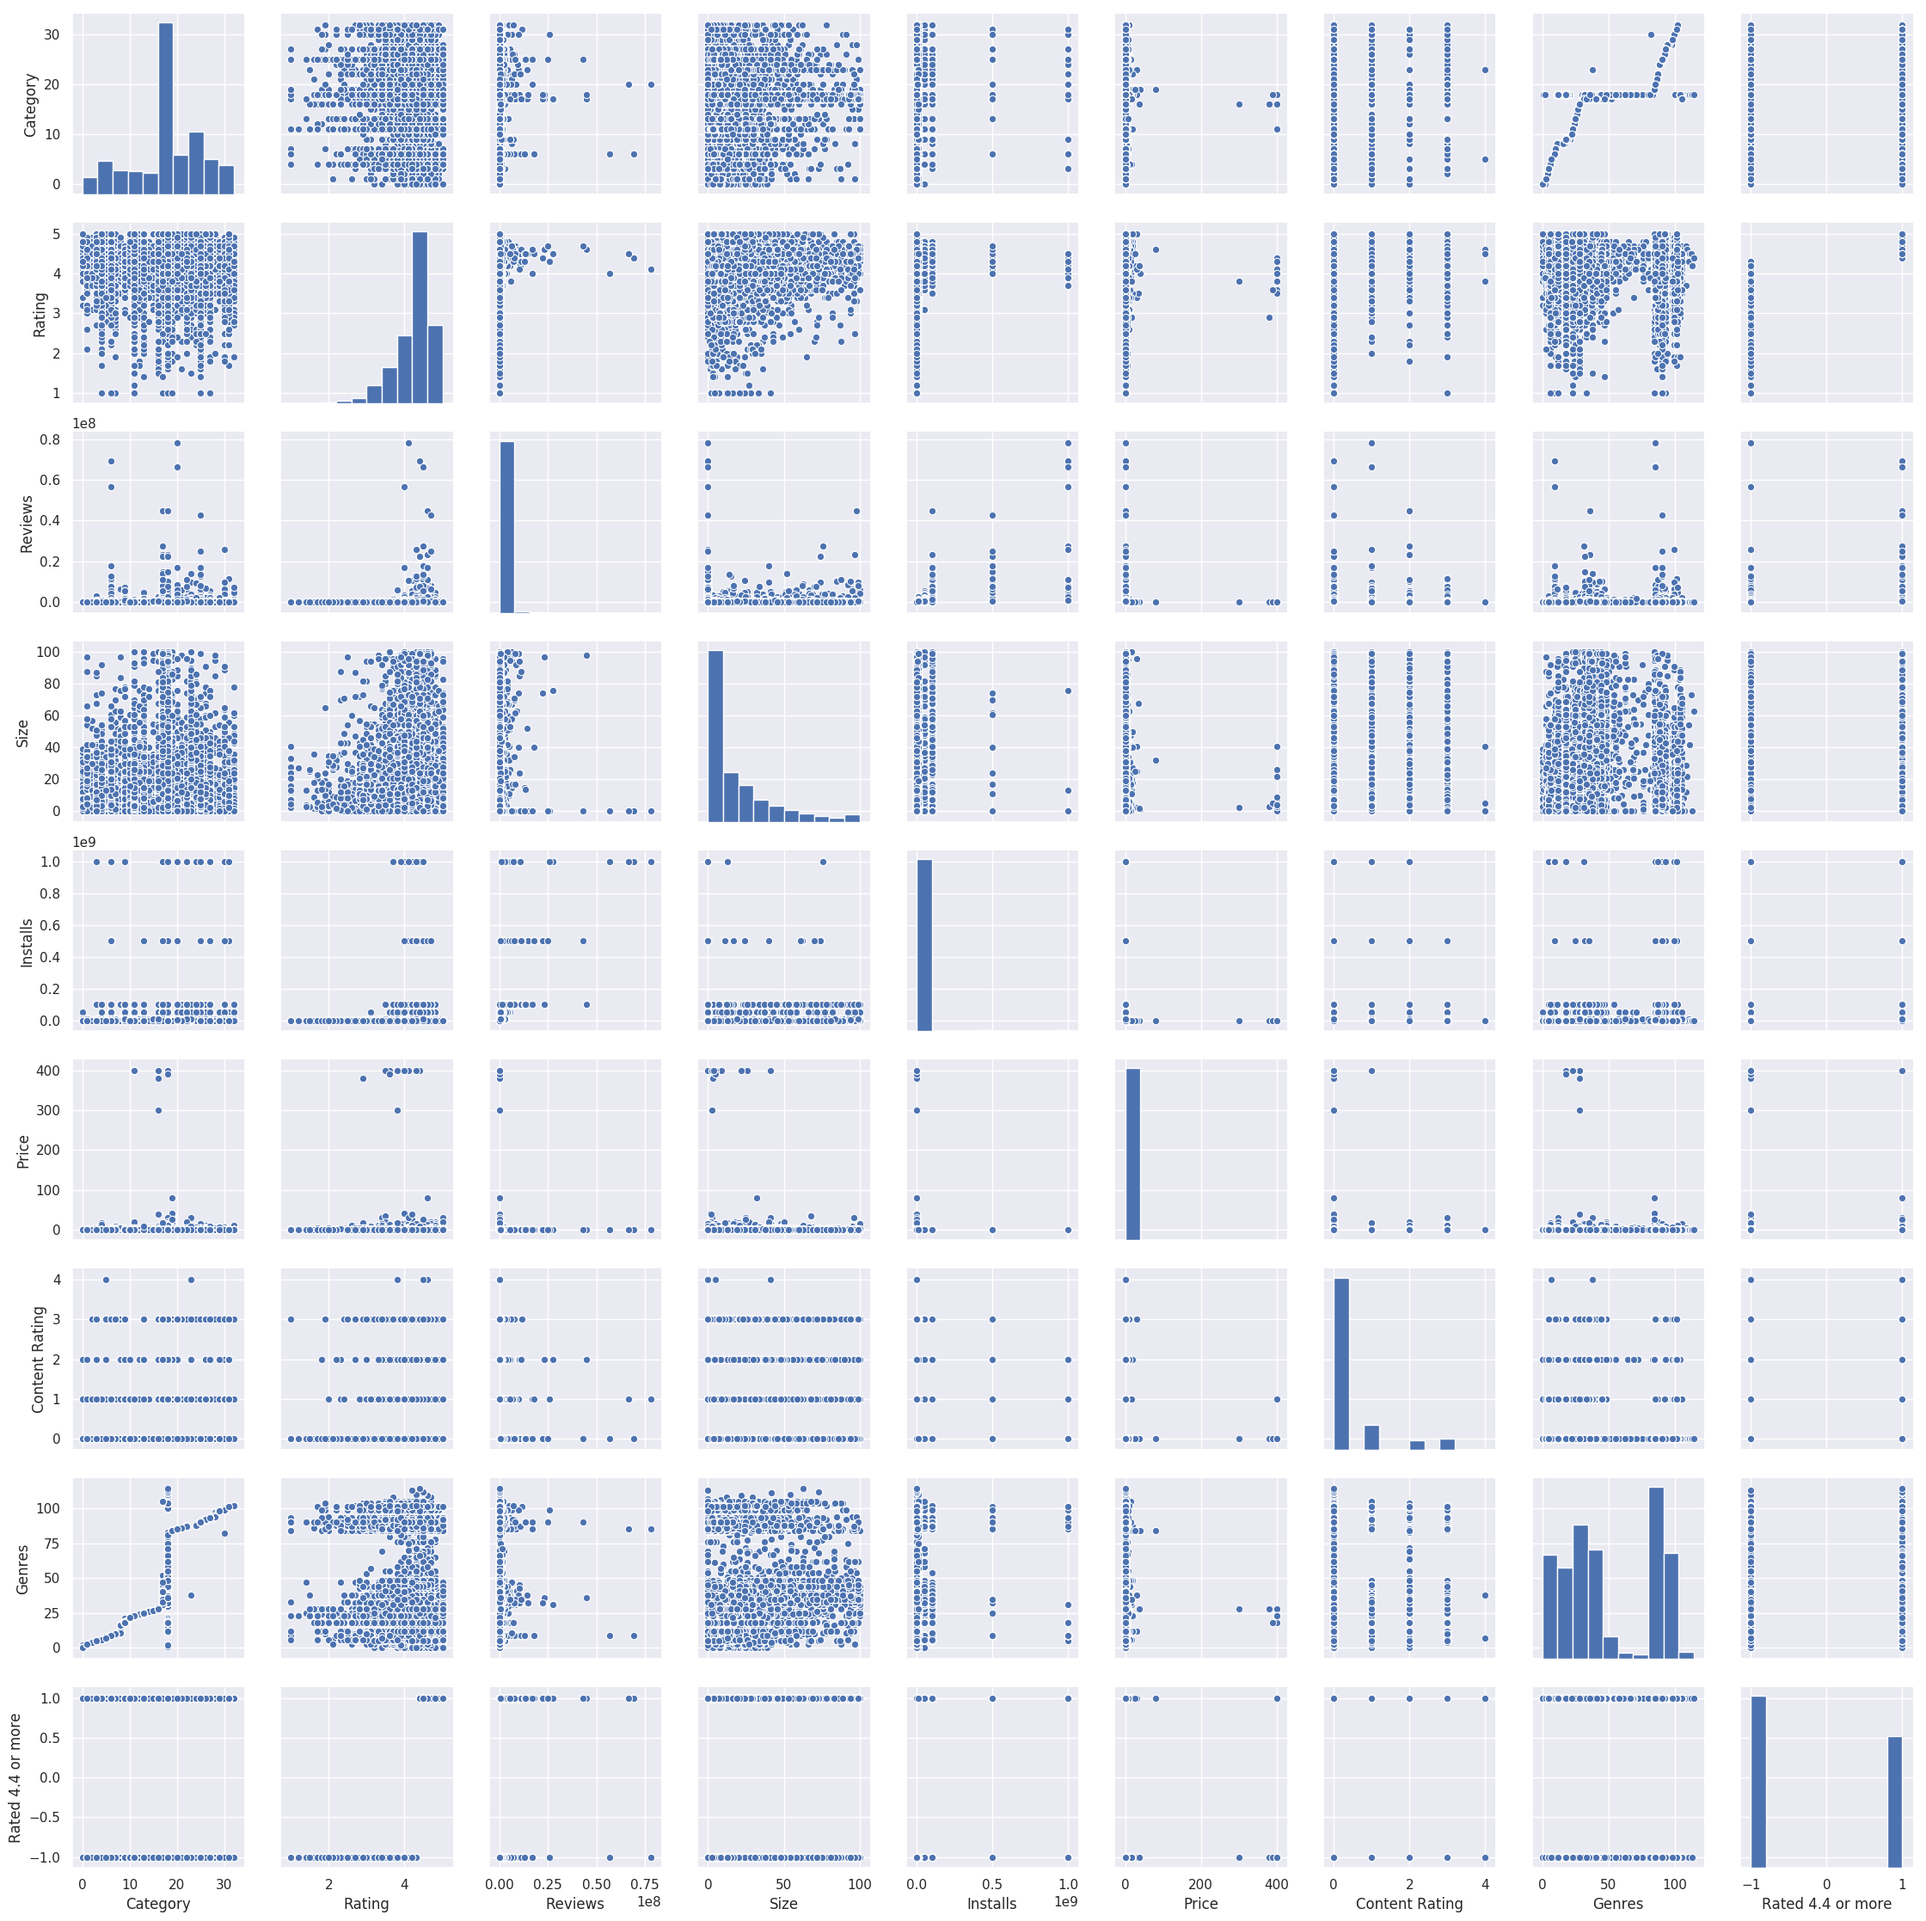
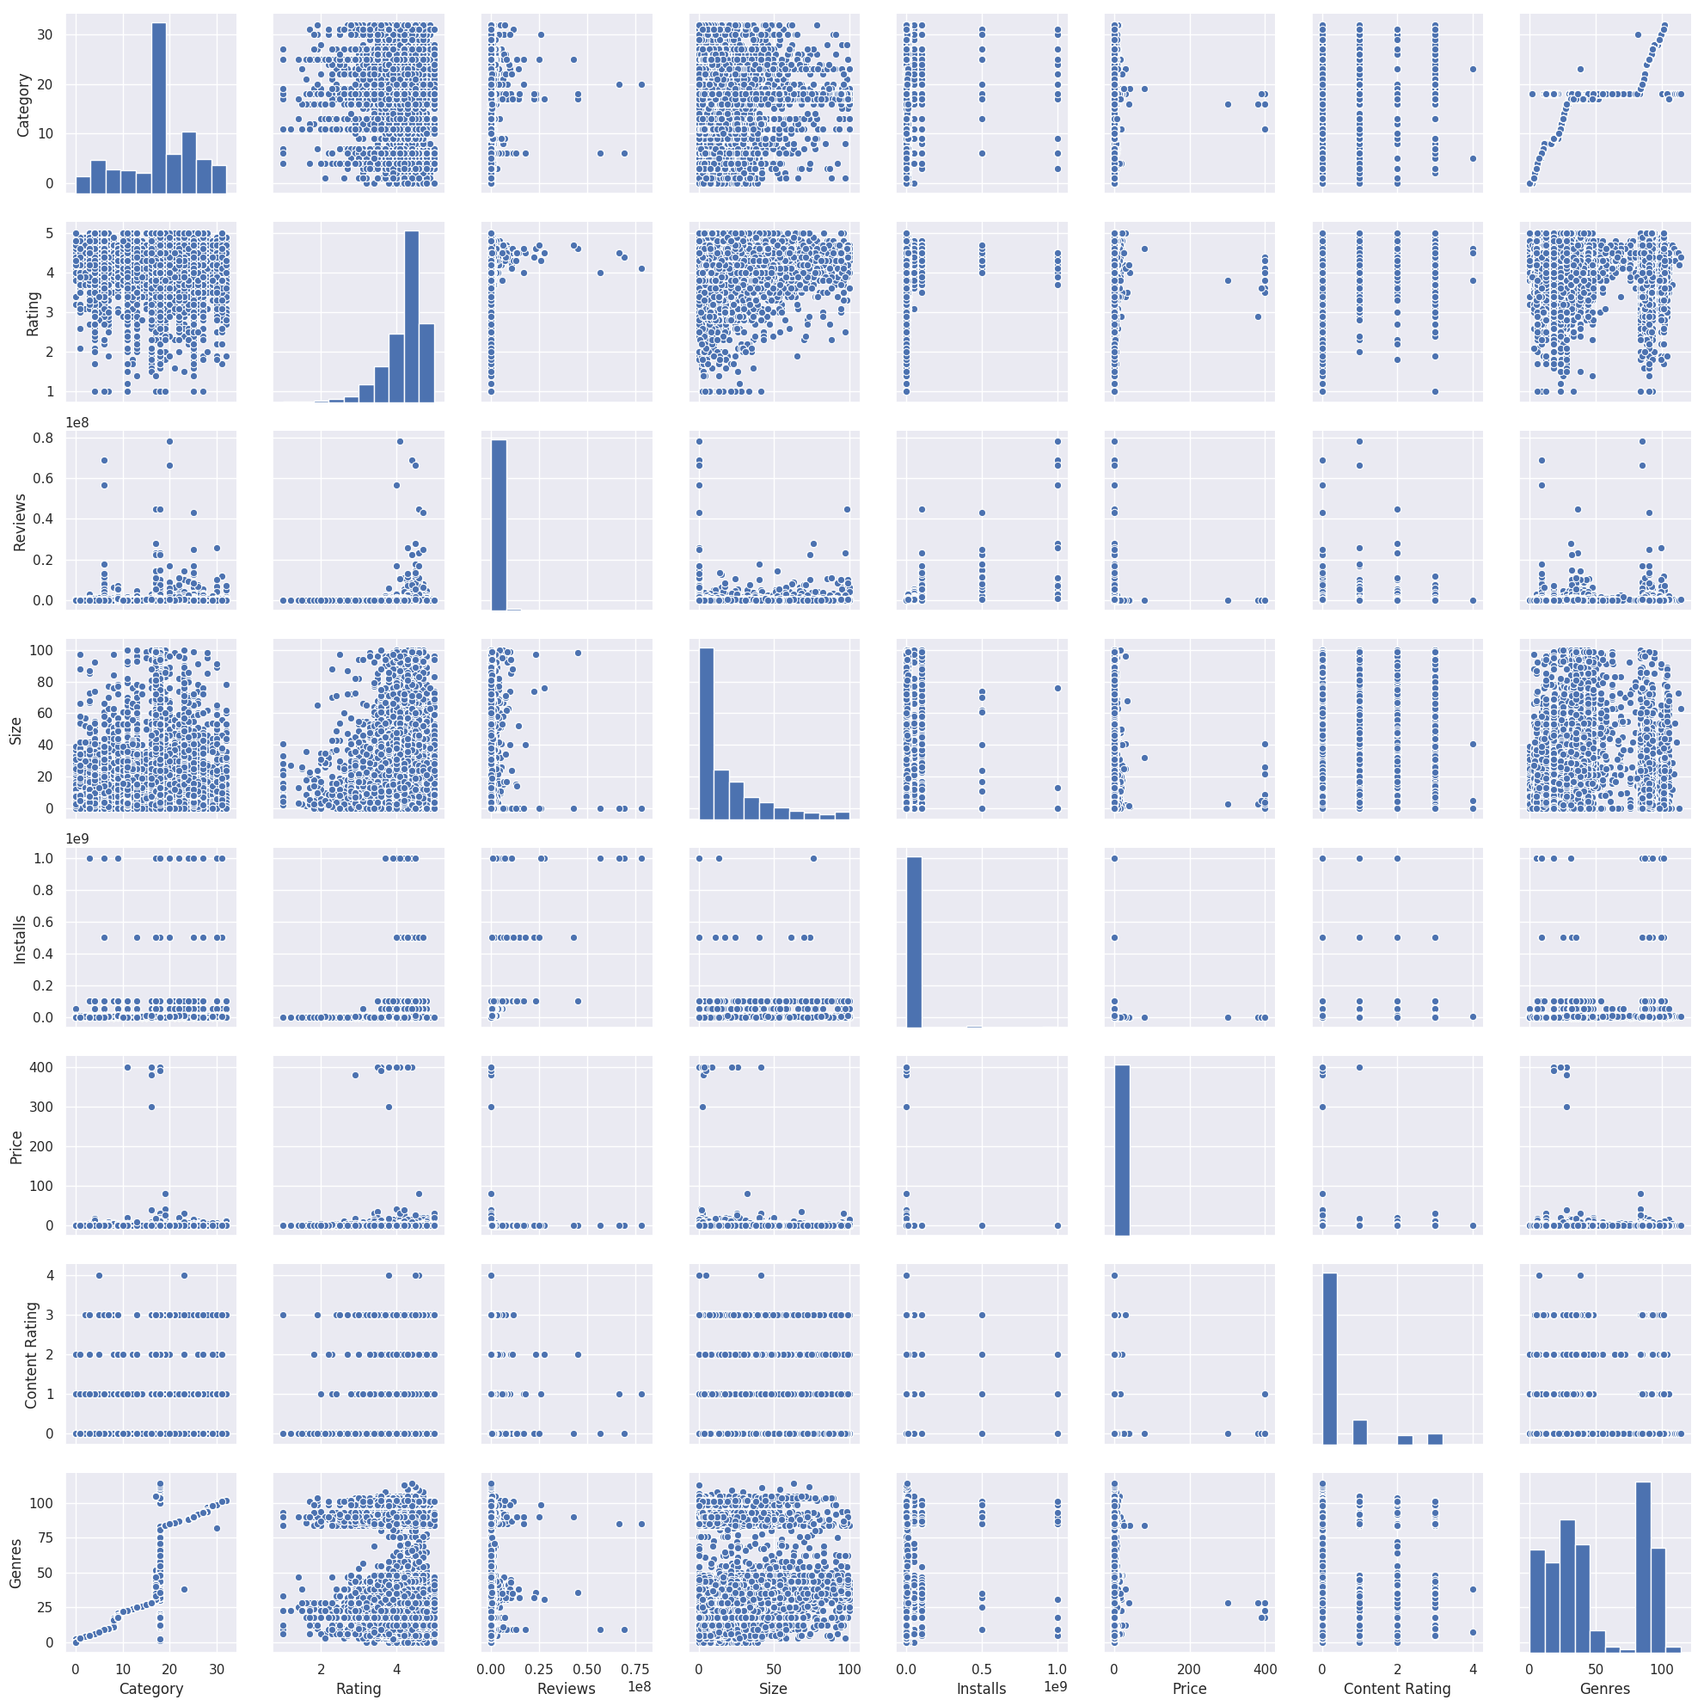
fixed pairwise graph

diff --git a/dataset.visualizations/googleplay/visualization.py b/dataset.visualizations/googleplay/visualization.py
@@ -1,3 +1,4 @@
+#!/usr/bin/env python
 # coding: utf-8
 import seaborn as sns; sns.set(color_codes=True)
 import pandas as pd
@@ -5,7 +6,6 @@ import numpy as np
 import matplotlib.pyplot as plt
 
 df = pd.read_csv("../../dataset.preprocessed/cleaned.csv", index_col=0)
-df.drop('Rated 4.4 or more', axis=1)
 
 g = sns.lmplot(x="Reviews", y="Rating", data=df)
 g.savefig('reviews-rating.png')
@@ -13,7 +13,7 @@ g.savefig('reviews-rating.png')
 g = sns.catplot(x="Rated 4.4 or more", y="Reviews", data=df)
 g.savefig('rated4.4ormore-reviews.png')
 
-
+df = df.drop('Rated 4.4 or more', axis=1)
 corr = df.corr()
 
 # Generate a mask for the upper triangle
